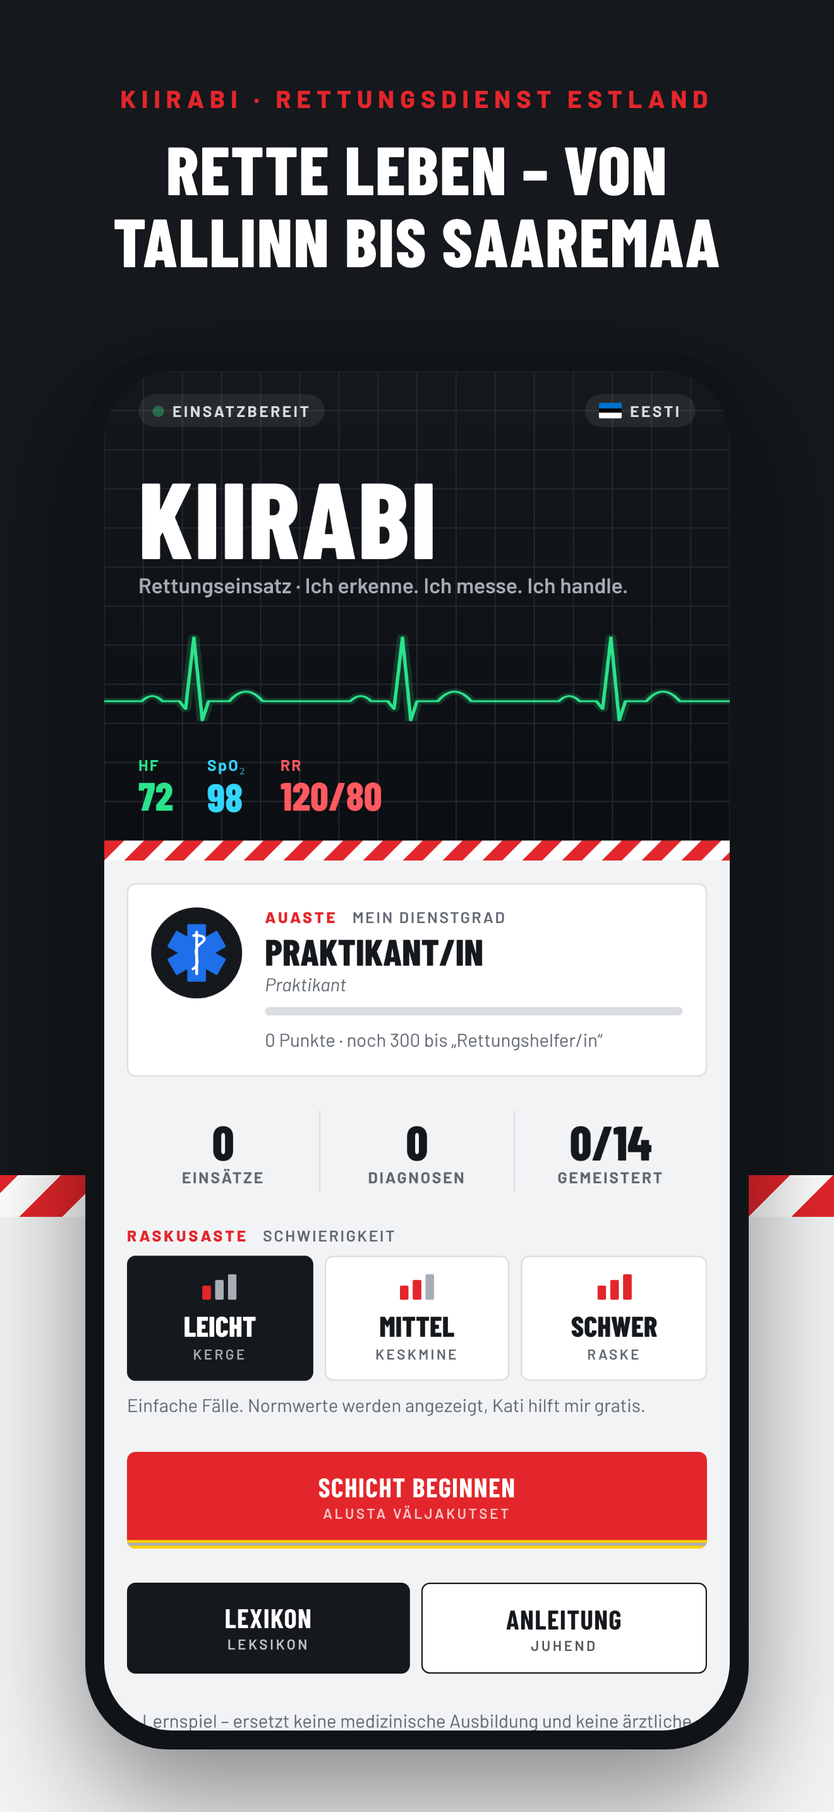
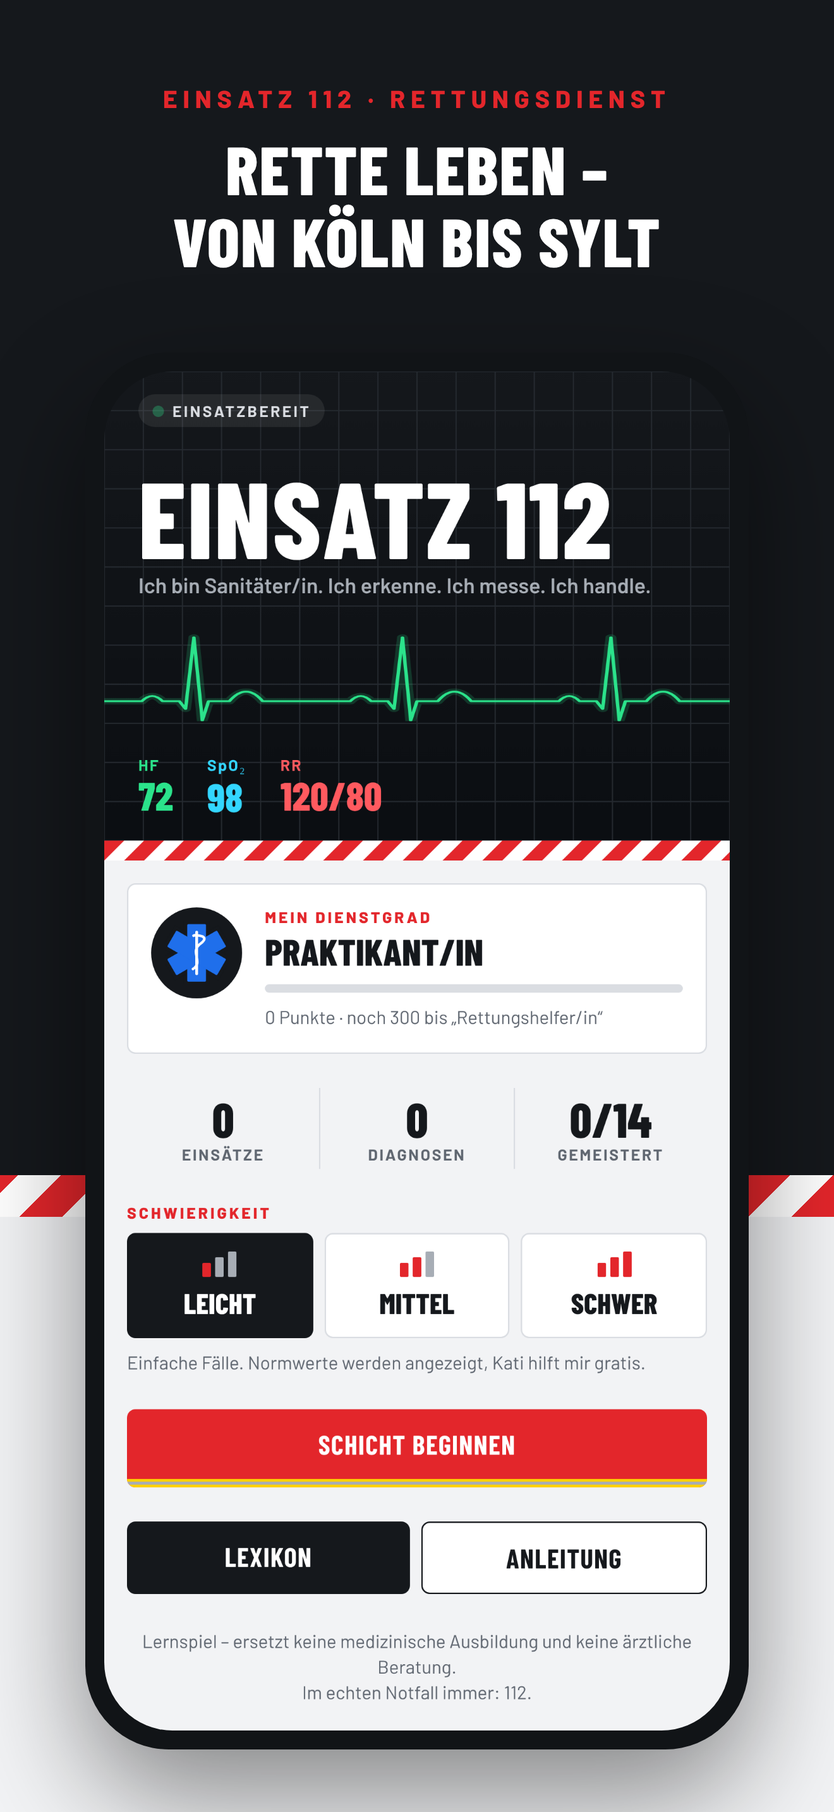
Move all cases to German places and German patient names
- 14 cases now play in Germany (Köln, Heidelberg, Lübeck, Rügen,
  Freiburg, Dresden, Müritz, München, Frankfurt, Aachen, Scheeßel,
  Sylt, Hamburg, Münster) with German names in all texts
- Guide no longer mentions Estonia
- README, App Store texts and screenshots updated to "Einsatz 112"

Claude-Session: https://claude.ai/code/session_013Zik98tbdtaAxD1UhhmXzC

diff --git a/src/data/cases.ts b/src/data/cases.ts
@@ -35,10 +35,10 @@ export const CASES: MedCase[] = [
     diagnosis: 'Akuter Herzinfarkt (STEMI)',
     distractors: ['Lungenembolie', 'Panikattacke', 'Sodbrennen (Reflux)'],
     difficulty: 1,
-    patient: { name: 'Jaan Tamm', age: 58, sex: 'm' },
-    location: 'Tallinn, Altstadt – Raekoja plats',
+    patient: { name: 'Klaus Becker', age: 58, sex: 'm' },
+    location: 'Köln, Altstadt – Alter Markt',
     dispatch: 'Mann mit Brustschmerzen, kaltschweißig, sitzt auf einer Bank am Rathausplatz.',
-    scene: 'Ich finde Jaan zusammengesunken auf einer Bank vor dem Rathaus. Er presst die Faust auf die Brust, Schweißperlen auf der Stirn.',
+    scene: 'Ich finde Klaus zusammengesunken auf einer Bank vor dem Rathaus. Er presst die Faust auf die Brust, Schweißperlen auf der Stirn.',
     anamnese: [
       '„Es drückt so stark auf der Brust, als säße ein Elefant darauf.“',
       'Schmerz strahlt in den linken Arm und den Unterkiefer aus.',
@@ -74,10 +74,10 @@ export const CASES: MedCase[] = [
     diagnosis: 'Hypoglykämie (Unterzuckerung)',
     distractors: ['Schlaganfall', 'Alkoholvergiftung', 'Epileptischer Anfall'],
     difficulty: 1,
-    patient: { name: 'Mari Kask', age: 34, sex: 'w' },
-    location: 'Tartu, Universitätsbibliothek',
+    patient: { name: 'Anna Schulz', age: 34, sex: 'w' },
+    location: 'Heidelberg, Universitätsbibliothek',
     dispatch: 'Frau verhält sich verwirrt und aggressiv, Kollegen sind besorgt.',
-    scene: 'Zwischen den Bücherregalen sitzt Mari auf dem Boden. Sie schaut mich glasig an und murmelt: „Lassen Sie mich in Ruhe …“',
+    scene: 'Zwischen den Bücherregalen sitzt Anna auf dem Boden. Sie schaut mich glasig an und murmelt: „Lassen Sie mich in Ruhe …“',
     anamnese: [
       'Kollegin: „Sie ist Diabetikerin und hat heute das Mittagessen ausgelassen.“',
       'Hat morgens wie gewohnt Insulin gespritzt.',
@@ -112,10 +112,10 @@ export const CASES: MedCase[] = [
     diagnosis: 'Schlaganfall',
     distractors: ['Hypoglykämie', 'Migräne mit Aura', 'Hirnhautentzündung'],
     difficulty: 1,
-    patient: { name: 'Liis Mägi', age: 72, sex: 'w' },
-    location: 'Pärnu, Rüütli-Straße',
+    patient: { name: 'Helga Wagner', age: 72, sex: 'w' },
+    location: 'Lübeck, Breite Straße',
     dispatch: 'Ältere Frau kann plötzlich nicht mehr richtig sprechen.',
-    scene: 'Liis sitzt am Küchentisch, die Kaffeetasse liegt zerbrochen am Boden. Als sie lächeln will, hängt ihr rechter Mundwinkel.',
+    scene: 'Helga sitzt am Küchentisch, die Kaffeetasse liegt zerbrochen am Boden. Als sie lächeln will, hängt ihr rechter Mundwinkel.',
     anamnese: [
       'Ehemann: „Beim Kaffeetrinken fiel ihr plötzlich die Tasse aus der rechten Hand.“',
       'Symptombeginn vor ca. 40 Minuten (genau beobachtet).',
@@ -150,10 +150,10 @@ export const CASES: MedCase[] = [
     diagnosis: 'Anaphylaktischer Schock',
     distractors: ['Asthmaanfall', 'Sonnenstich', 'Panikattacke'],
     difficulty: 2,
-    patient: { name: 'Kalev Saar', age: 25, sex: 'm' },
-    location: 'Saaremaa, Sommerfest an der Windmühle in Angla',
+    patient: { name: 'Lukas Hoffmann', age: 25, sex: 'm' },
+    location: 'Rügen, Sommerfest an der Windmühle in Gingst',
     dispatch: 'Mann nach Wespenstich, bekommt schlecht Luft.',
-    scene: 'Neben der alten Windmühle liegt Kalev im Gras. Sein Gesicht ist aufgedunsen, jeder Atemzug pfeift.',
+    scene: 'Neben der alten Windmühle liegt Lukas im Gras. Sein Gesicht ist aufgedunsen, jeder Atemzug pfeift.',
     anamnese: [
       'Freund: „Er wurde vor 10 Minuten in den Hals gestochen.“',
       '„Mein Hals wird so eng …“',
@@ -188,10 +188,10 @@ export const CASES: MedCase[] = [
     diagnosis: 'Akuter Asthmaanfall',
     distractors: ['Lungenembolie', 'Hyperventilation', 'Herzinfarkt'],
     difficulty: 1,
-    patient: { name: 'Kadri Lepp', age: 19, sex: 'w' },
-    location: 'Tartu, Studentenwohnheim Raatuse',
+    patient: { name: 'Lea Fischer', age: 19, sex: 'w' },
+    location: 'Freiburg, Studentenwohnheim',
     dispatch: 'Junge Frau mit starker Atemnot, Spray hilft nicht.',
-    scene: 'Kadri sitzt vornübergebeugt auf ihrem Bett und stützt sich auf die Knie. Ich höre ihr Pfeifen schon an der Tür.',
+    scene: 'Lea sitzt vornübergebeugt auf ihrem Bett und stützt sich auf die Knie. Ich höre ihr Pfeifen schon an der Tür.',
     anamnese: [
       '„Ich … kriege … keine Luft … raus.“ (spricht nur in Satzfragmenten)',
       'Asthma seit der Kindheit, Erkältung seit drei Tagen.',
@@ -226,10 +226,10 @@ export const CASES: MedCase[] = [
     diagnosis: 'Sepsis bei Lungenentzündung',
     distractors: ['Grippaler Infekt', 'Demenz', 'Herzinsuffizienz'],
     difficulty: 3,
-    patient: { name: 'Toomas Rebane', age: 81, sex: 'm' },
-    location: 'Narva, Pflegeheim am Fluss',
+    patient: { name: 'Heinrich Krause', age: 81, sex: 'm' },
+    location: 'Dresden, Pflegeheim an der Elbe',
     dispatch: 'Bewohner seit heute verwirrt und sehr schwach.',
-    scene: 'Toomas liegt im Bett, die Decke weggestrampelt. Er fühlt sich glühend heiß an und erkennt die Pflegerin nicht.',
+    scene: 'Heinrich liegt im Bett, die Decke weggestrampelt. Er fühlt sich glühend heiß an und erkennt die Pflegerin nicht.',
     anamnese: [
       'Pflegerin: „Er hustet seit Tagen und ist heute ganz anders als sonst.“',
       'Trinkt und isst seit zwei Tagen kaum.',
@@ -264,10 +264,10 @@ export const CASES: MedCase[] = [
     diagnosis: 'Unterkühlung (Hypothermie)',
     distractors: ['Alkoholvergiftung', 'Hypoglykämie', 'Herzinfarkt'],
     difficulty: 2,
-    patient: { name: 'Andres Kuusk', age: 45, sex: 'm' },
-    location: 'Peipussee, Eisfischerei bei Mustvee',
-    dispatch: 'Eisfischer ins Eis eingebrochen, von Freunden herausgezogen.',
-    scene: 'Auf dem Eis liegt Andres in nassen Kleidern. Er zittert nicht mehr – das macht mir Sorgen.',
+    patient: { name: 'Thomas Braun', age: 45, sex: 'm' },
+    location: 'Müritz, Eisangeln bei Waren',
+    dispatch: 'Eisangler ins Eis eingebrochen, von Freunden herausgezogen.',
+    scene: 'Auf dem Eis liegt Thomas in nassen Kleidern. Er zittert nicht mehr – das macht mir Sorgen.',
     anamnese: [
       'Freund: „Er war bestimmt 15 Minuten im Wasser, bevor wir ihn rausbekamen.“',
       'Seitdem liegt er im Schnee, nasse Kleidung.',
@@ -302,10 +302,10 @@ export const CASES: MedCase[] = [
     diagnosis: 'Hitzschlag',
     distractors: ['Grippaler Infekt', 'Schlaganfall', 'Hypoglykämie'],
     difficulty: 2,
-    patient: { name: 'Margus Sepp', age: 30, sex: 'm' },
-    location: 'Tallinn, Lauluväljak (Sängerfest)',
+    patient: { name: 'Florian Huber', age: 30, sex: 'm' },
+    location: 'München, Chorfest im Englischen Garten',
     dispatch: 'Sänger im Chor kollabiert, 32 °C im Schatten.',
-    scene: 'Hinter der Sängerbühne liegt Margus in seiner Tracht im Gras. Seine Haut ist knallrot und glühend heiß.',
+    scene: 'Hinter der Sängerbühne liegt Florian in seiner Tracht im Gras. Seine Haut ist knallrot und glühend heiß.',
     anamnese: [
       'Chorleiterin: „Wir standen drei Stunden in der Sonne, in Tracht.“',
       'Hat kaum etwas getrunken.',
@@ -340,10 +340,10 @@ export const CASES: MedCase[] = [
     diagnosis: 'Lungenembolie',
     distractors: ['Asthmaanfall', 'Rippenprellung', 'Hyperventilation'],
     difficulty: 3,
-    patient: { name: 'Piret Ilves', age: 38, sex: 'w' },
-    location: 'Tallinn, Flughafen Lennart Meri',
+    patient: { name: 'Sabine Wolf', age: 38, sex: 'w' },
+    location: 'Frankfurt, Flughafen – Terminal 1',
     dispatch: 'Frau nach Ankunft aus Asien plötzlich mit Atemnot.',
-    scene: 'Piret sitzt an Gate 3 auf ihrem Koffer, ringt nach Luft und hält sich die rechte Brustseite.',
+    scene: 'Sabine sitzt an Gate 3 auf ihrem Koffer, ringt nach Luft und hält sich die rechte Brustseite.',
     anamnese: [
       '„Ganz plötzlich bekam ich keine Luft mehr, und es sticht beim Einatmen.“',
       '11-Stunden-Flug, kaum aufgestanden.',
@@ -379,10 +379,10 @@ export const CASES: MedCase[] = [
     diagnosis: 'Hyperventilationssyndrom',
     distractors: ['Asthmaanfall', 'Lungenembolie', 'Hypoglykämie'],
     difficulty: 2,
-    patient: { name: 'Anu Põld', age: 22, sex: 'w' },
-    location: 'Tallinn, TalTech – Prüfungssaal',
+    patient: { name: 'Julia Neumann', age: 22, sex: 'w' },
+    location: 'Aachen, RWTH – Prüfungssaal',
     dispatch: 'Studentin hat vor der Prüfung eine „Atemattacke“.',
-    scene: 'Anu sitzt zitternd vor dem Prüfungssaal. Sie atmet schnell und tief, ihre Hände sind zu „Pfötchen“ verkrampft.',
+    scene: 'Julia sitzt zitternd vor dem Prüfungssaal. Sie atmet schnell und tief, ihre Hände sind zu „Pfötchen“ verkrampft.',
     anamnese: [
       '„Meine Hände kribbeln, und ich kann die Finger nicht bewegen!“',
       'Große Prüfungsangst, keine Vorerkrankungen.',
@@ -417,10 +417,10 @@ export const CASES: MedCase[] = [
     diagnosis: 'Epileptischer Krampfanfall (postiktal)',
     distractors: ['Schlaganfall', 'Synkope (Ohnmacht)', 'Hypoglykämie'],
     difficulty: 2,
-    patient: { name: 'Rein Oja', age: 27, sex: 'm' },
-    location: 'Viljandi, Folkfestival',
+    patient: { name: 'Jonas Richter', age: 27, sex: 'm' },
+    location: 'Scheeßel, Hurricane-Festival',
     dispatch: 'Mann hat vor dem Konzert gekrampft, jetzt nicht ansprechbar.',
-    scene: 'Rein liegt neben der Bühne, um ihn herum besorgte Festivalbesucher. Er schnarcht laut und reagiert kaum.',
+    scene: 'Jonas liegt neben der Bühne, um ihn herum besorgte Festivalbesucher. Er schnarcht laut und reagiert kaum.',
     anamnese: [
       'Freundin: „Er ist umgefallen und hat ca. 2 Minuten am ganzen Körper gezuckt.“',
       'Epilepsie bekannt, hat Tabletten vergessen und kaum geschlafen.',
@@ -455,10 +455,10 @@ export const CASES: MedCase[] = [
     diagnosis: 'Akute Herzinsuffizienz mit Lungenödem',
     distractors: ['Lungenentzündung', 'Asthmaanfall', 'Anaphylaxie'],
     difficulty: 3,
-    patient: { name: 'Kristiina Pärn', age: 76, sex: 'w' },
-    location: 'Haapsalu, Holzhaus am Promenadenweg',
+    patient: { name: 'Gisela Schmitt', age: 76, sex: 'w' },
+    location: 'Sylt, Reetdachhaus in Keitum',
     dispatch: 'Ältere Frau mit nächtlicher Atemnot, sitzt am offenen Fenster.',
-    scene: 'Kristiina sitzt im Nachthemd am offenen Fenster und ringt nach Luft. Ich höre es in ihrer Brust brodeln.',
+    scene: 'Gisela sitzt im Nachthemd am offenen Fenster und ringt nach Luft. Ich höre es in ihrer Brust brodeln.',
     anamnese: [
       '„Im Liegen ersticke ich – ich muss sitzen.“',
       'Herzschwäche bekannt, Wassertabletten seit einer Woche nicht genommen.',
@@ -493,10 +493,10 @@ export const CASES: MedCase[] = [
     diagnosis: 'Kreislaufkollaps (Synkope)',
     distractors: ['Epileptischer Anfall', 'Herzinfarkt', 'Hypoglykämie'],
     difficulty: 1,
-    patient: { name: 'Helena Kivi', age: 17, sex: 'w' },
-    location: 'Tallinn, Nigulisten-Kirche (Orgelkonzert)',
+    patient: { name: 'Marie Koch', age: 17, sex: 'w' },
+    location: 'Hamburg, Michel (Orgelkonzert)',
     dispatch: 'Jugendliche während eines Konzerts umgekippt, wieder wach.',
-    scene: 'Helena liegt im Kirchengang, kreidebleich. Ihre Mutter fächelt ihr Luft zu. Sie blinzelt mich an: „Was ist passiert?“',
+    scene: 'Marie liegt im Kirchengang, kreidebleich. Ihre Mutter fächelt ihr Luft zu. Sie blinzelt mich an: „Was ist passiert?“',
     anamnese: [
       'Mutter: „Wir standen über eine Stunde, und es war sehr stickig.“',
       '„Mir wurde schwarz vor Augen, dann lag ich plötzlich am Boden.“',
@@ -531,10 +531,10 @@ export const CASES: MedCase[] = [
     diagnosis: 'Unterarmbruch (Radiusfraktur)',
     distractors: ['Schulterluxation', 'Schlaganfall', 'Sehnenscheidenentzündung'],
     difficulty: 1,
-    patient: { name: 'Mart Kallas', age: 41, sex: 'm' },
-    location: 'Tartu, Radweg am Emajõgi',
+    patient: { name: 'Stefan Meyer', age: 41, sex: 'm' },
+    location: 'Münster, Radweg an der Promenade',
     dispatch: 'Radfahrer gestürzt, Handgelenk verletzt.',
-    scene: 'Mart sitzt am Wegrand neben seinem Fahrrad und hält vorsichtig seinen linken Arm. Das Handgelenk sieht seltsam „abgeknickt“ aus.',
+    scene: 'Stefan sitzt am Wegrand neben seinem Fahrrad und hält vorsichtig seinen linken Arm. Das Handgelenk sieht seltsam „abgeknickt“ aus.',
     anamnese: [
       '„Ich bin auf nassem Laub weggerutscht und auf die Hand gefallen.“',
       '„Es tut höllisch weh, ich kann die Hand kaum bewegen.“',

diff --git a/src/screens/GuideScreen.tsx b/src/screens/GuideScreen.tsx
@@ -5,7 +5,7 @@ import { POINTS } from '../game/scoring';
 import { colors, spacing, type, fonts } from '../theme';
 
 const STEPS = [
-  { de: 'Alarm', text: 'Mein Melder piept: Die Leitstelle schickt mich irgendwo in Estland hin. Mit Blaulicht geht es los.' },
+  { de: 'Alarm', text: 'Mein Melder piept: Die Leitstelle schickt mich zum nächsten Notfall. Mit Blaulicht geht es los.' },
   {
     de: 'Untersuchung',
     text: 'Ich höre zu, schaue genau hin und messe Vitalwerte. Jeden Wert stufe ich ein: niedrig, normal oder hoch. Jede Messung kostet Zeit – und den Patienten etwas Kraft.',

diff --git a/docs/APPSTORE-EINTRAG.md b/docs/APPSTORE-EINTRAG.md
@@ -1,4 +1,4 @@
-# App-Store-Eintrag – Kiirabi
+# App-Store-Eintrag – Einsatz 112
 
 Alle Texte zum Einfügen in **App Store Connect → App → App-Store-Reiter (Deutsch)**.
 Die Zeichenlimits von Apple sind eingehalten.
@@ -9,7 +9,7 @@ In dieser Reihenfolge hochladen – Apple skaliert sie für kleinere iPhones sel
 
 | | Datei | Überschrift |
 |---|---|---|
-| 1 | [`appstore/01.png`](appstore/01.png) | Rette Leben – von Tallinn bis Saaremaa |
+| 1 | [`appstore/01.png`](appstore/01.png) | Rette Leben – von Köln bis Sylt |
 | 2 | [`appstore/02.png`](appstore/02.png) | Der Melder piept: 14 Einsätze, drei Schwierigkeitsstufen |
 | 3 | [`appstore/03.png`](appstore/03.png) | Mit Blaulicht zum Einsatzort |
 | 4 | [`appstore/04.png`](appstore/04.png) | Puls, Blutdruck, SpO2, EKG: messen und einschätzen |
@@ -17,20 +17,20 @@ In dieser Reihenfolge hochladen – Apple skaliert sie für kleinere iPhones sel
 
 ## Texte
 
-**Name** (max. 30): `Kiirabi – Rettungseinsatz`
+**Name** (max. 30): `Einsatz 112 – Rettungsdienst`
 
-**Untertitel** (max. 30): `Sanitäter-Lernspiel in Estland`
+**Untertitel** (max. 30): `Das Sanitäter-Lernspiel`
 
 **Werbetext** (max. 170):
-> Der Melder piept! Als Sanitäter/in in Estland messe ich Vitalwerte, erkenne Krankheiten und entscheide, was zu tun ist – in drei Schwierigkeitsstufen.
+> Der Melder piept! Als Sanitäter/in messe ich Vitalwerte, erkenne Krankheiten und entscheide, was zu tun ist – in drei Schwierigkeitsstufen.
 
 **Keywords** (max. 100):
-`Sanitäter,Rettungsdienst,Notfall,Erste Hilfe,Vitalwerte,Medizin,Lernspiel,Estland,EKG,Pflege`
+`Sanitäter,Rettungsdienst,Notfall,Erste Hilfe,Vitalwerte,Medizin,Lernspiel,Notarzt,EKG,Pflege`
 
 **Beschreibung:**
-> Tere! Ich bin Sanitäter/in im estnischen Rettungsdienst – kiirabi.
+> Ich bin Sanitäter/in im Rettungsdienst.
 >
-> Mein Melder piept, und mit Blaulicht geht es los: in die Tallinner Altstadt, ins Studentenwohnheim in Tartu, zum Sängerfest, aufs Eis des Peipussees. Vor Ort höre ich zu, schaue genau hin und messe: Puls, Blutdruck, Sauerstoffsättigung, Atemfrequenz, Temperatur, Blutzucker, Bewusstsein und 12-Kanal-EKG. Jeden Wert schätze ich selbst ein – niedrig, normal oder hoch?
+> Mein Melder piept, und mit Blaulicht geht es los: in die Kölner Altstadt, ins Studentenwohnheim in Freiburg, zum Chorfest in München, aufs Eis der Müritz. Vor Ort höre ich zu, schaue genau hin und messe: Puls, Blutdruck, Sauerstoffsättigung, Atemfrequenz, Temperatur, Blutzucker, Bewusstsein und 12-Kanal-EKG. Jeden Wert schätze ich selbst ein – niedrig, normal oder hoch?
 >
 > Dann stelle ich meine Verdachtsdiagnose und entscheide, was zu tun ist. Jede Messung kostet Zeit, jede falsche Maßnahme schadet meinem Patienten. Am Ende zeigt der Einsatzbericht, wie mein Patient in der Klinik ankommt.
 >
@@ -41,7 +41,7 @@ In dieser Reihenfolge hochladen – Apple skaliert sie für kleinere iPhones sel
 > • Look wie im echten Rettungsdienst: Patientenmonitor mit EKG, Warnmarkierung, Reflexstreifen
 > • Ohne Werbung, ohne Konto, ohne Datenerfassung
 >
-> Hinweis: Kiirabi ist ein Lernspiel mit vereinfachten Inhalten. Es ersetzt keine medizinische Ausbildung, keine ärztliche Beratung und keine Leitlinien. Im Notfall immer 112 wählen.
+> Hinweis: Einsatz 112 ist ein Lernspiel mit vereinfachten Inhalten. Es ersetzt keine medizinische Ausbildung, keine ärztliche Beratung und keine Leitlinien. Im Notfall immer 112 wählen.
 
 ## Weitere Angaben
 
@@ -58,4 +58,4 @@ In dieser Reihenfolge hochladen – Apple skaliert sie für kleinere iPhones sel
 
 ## Notizen für die App-Prüfung (Review Notes)
 
-> Kiirabi is an educational game for learning paramedic basics (recognising vital signs and common emergencies). All patients and cases are fictional. The app gives no medical advice for real persons, collects no data and needs no login. A disclaimer is shown on the start screen and in the guide.
+> Einsatz 112 is an educational game for learning paramedic basics (recognising vital signs and common emergencies). All patients and cases are fictional. The app gives no medical advice for real persons, collects no data and needs no login. A disclaimer is shown on the start screen and in the guide.

diff --git a/README.md b/README.md
@@ -1,8 +1,8 @@
 # Einsatz 112 – Rettungsdienst-Lernspiel 🚑
 
-Ein medizinisches Lernspiel mit **Expo / React Native** im **estnischen Design**, erzählt in der
-**Ich-Perspektive**: Ich bin Sanitäter/in im estnischen Rettungsdienst (*kiirabi*), fahre mit meiner
-Kollegin Kati zu Einsätzen quer durch Estland, messe Vitalwerte, stufe sie ein, erkenne die
+Ein medizinisches Lernspiel mit **Expo / React Native** im **Rettungsdienst-Design**, komplett auf Deutsch und
+erzählt in der **Ich-Perspektive**: Ich bin Sanitäter/in im Rettungsdienst, fahre mit meiner
+Kollegin Kati zu Einsätzen quer durch Deutschland, messe Vitalwerte, stufe sie ein, erkenne die
 Krankheit und entscheide, was zu tun ist.
 
 ## Schwierigkeitsstufen
@@ -23,15 +23,15 @@ Krankheit und entscheide, was zu tun ist.
 
 ## Spielablauf
 
-1. **Väljakutse – Alarm:** Einsatzmeldung der Leitstelle (Tallinn, Tartu, Pärnu, Saaremaa, Peipussee …).
-2. **Läbivaatus – Untersuchung:** Anamnese und Sichtbefund lesen, Werte messen
+1. **Alarm:** Einsatzmeldung der Leitstelle (Köln, Heidelberg, Lübeck, Rügen, Müritz …).
+2. **Untersuchung:** Anamnese und Sichtbefund lesen, Werte messen
    (Puls, Blutdruck, SpO₂, Atemfrequenz, Temperatur, Blutzucker, GCS, 12-Kanal-EKG)
    und jeden Wert als *niedrig / normal / hoch* einstufen. Jede Messung kostet eine Minute.
-3. **Diagnoos – Diagnose:** Verdachtsdiagnose aus vier Möglichkeiten wählen.
-4. **Ravi – Maßnahmen:** Alle richtigen Erstmaßnahmen auswählen – falsche kosten Punkte.
-5. **Tulemus – Einsatzbericht:** Punkte, Sterne, Erklärung und Leitsymptome.
+3. **Diagnose:** Verdachtsdiagnose aus vier Möglichkeiten wählen.
+4. **Maßnahmen:** Alle richtigen Erstmaßnahmen auswählen – falsche kosten Punkte.
+5. **Einsatzbericht:** Punkte, Sterne, Erklärung und Leitsymptome.
 
-Punkte bringen dich im Rang nach oben – vom *Praktikant* bis zur *Kiirabibrigaadi juht*.
+Punkte bringen dich im Rang nach oben – vom *Praktikanten* bis zur *Teamleitung*.
 Der Fortschritt wird lokal gespeichert. Im **Lexikon** findest du Normwerte und alle Krankheitsbilder.
 
 ### Enthaltene Fälle (14)
@@ -48,7 +48,7 @@ Der Fortschritt wird lokal gespeichert. Im **Lexikon** findest du Normwerte und 
 - **Rot-weiße Warnmarkierung** wie am Heck eines Rettungswagens, **Reflexstreifen** (Gelb–Silber–Gelb)
   wie an der Einsatzkleidung
 - Graphit, Signalrot und Blaulicht-Blau auf neutralem Grau; Schriften *Barlow Condensed* und *Barlow*
-- Komplett auf Deutsch; die Einsätze spielen in Estland (Tallinn, Tartu, Pärnu …)
+- Komplett auf Deutsch; die Einsätze spielen in ganz Deutschland
 
 Die Grafiken sind Vektorgrafiken (`react-native-svg`) in `src/components/Ems.tsx`.
 
@@ -70,7 +70,7 @@ Lokal bauen: `cd desktop && npm install && npm run prepare-app && npm run dist:l
 
 Beides liegt unter **Releases** im Repository (neuester Build oben).
 Android: APK auf dem Handy öffnen und „Installation aus unbekannten Quellen“ erlauben.
-**iPhone & iPad (ohne App Store):** Kiirabi läuft als Web-App mit eigenem Icon, im Vollbild und offline.
+**iPhone & iPad (ohne App Store):** Einsatz 112 läuft als Web-App mit eigenem Icon, im Vollbild und offline.
 Der Workflow „Web-App veröffentlichen“ legt sie unter <https://tobiaslangde-eng.github.io/retung/> ab.
 Auf dem iPhone den Link in **Safari** öffnen → Teilen-Symbol → **„Zum Home-Bildschirm“**.
 Einmalig nötig: Repository öffentlich und unter *Settings → Pages* den Branch `gh-pages` als Quelle wählen.
@@ -97,7 +97,7 @@ npm run build:web     # erzeugt dist/kiirabi.html – eine eigenständige Datei 
 
 ```
 App.tsx                 Navigation (Zustandsautomat) & Fortschritt
-src/theme.ts            Farben & Typografie (estnisches Design)
+src/theme.ts            Farben & Typografie (Rettungsdienst-Design)
 src/components/Ems.tsx  Star of Life, Warnmarkierung, Reflexstreifen, Monitor, EKG, Stadt
 src/components/         Buttons, Karten, Kati, Blaulichtfahrt
 src/data/vitals.ts      Vitalwerte, Normbereiche, Einstufung

diff --git a/docs/APPLE-RELEASE.md b/docs/APPLE-RELEASE.md
@@ -1,4 +1,4 @@
-# Kiirabi für iPhone veröffentlichen
+# Einsatz 112 für iPhone veröffentlichen
 
 Das Projekt ist fertig für Apple vorbereitet (`eas.json`, Bundle-ID `ee.kiirabi.rettung`,
 Exportkonformität, Workflow „iOS Release“). Gebaut wird auf den Mac-Servern von Expo –
@@ -49,7 +49,7 @@ Nach ca. 20–40 Minuten ist der Build fertig und in **App Store Connect → Tes
 
 1. In App Store Connect unter *TestFlight* dich selbst als internen Tester eintragen.
 2. Die App **TestFlight** aus dem App Store auf dem iPhone installieren.
-3. Einladung annehmen → Kiirabi installieren.
+3. Einladung annehmen → Einsatz 112 installieren.
 
 ## 4. Spätere Updates ohne eigenen Rechner
 
@@ -73,13 +73,13 @@ Du brauchst:
 - **Altersfreigabe**: Fragebogen ausfüllen (medizinische Inhalte: „selten/gering“)
 - **Beschreibung** – Vorschlag:
 
-> Kiirabi – Rettungseinsatz: Als Sanitäter/in in Estland erkenne ich Krankheiten, messe
-> Vitalwerte und entscheide, was zu tun ist. 14 Einsätze von Tallinn bis Saaremaa,
-> drei Schwierigkeitsstufen, Lexikon mit Normwerten. Im estnischen Design.
+> Einsatz 112: Als Sanitäter/in erkenne ich Krankheiten, messe Vitalwerte und
+> entscheide, was zu tun ist. 14 Einsätze von Köln bis Sylt, drei Schwierigkeitsstufen,
+> Lexikon mit Normwerten.
 > Lernspiel – ersetzt keine medizinische Ausbildung oder ärztliche Beratung.
 
 **Hinweis zur Prüfung:** Apple prüft Apps mit medizinischen Inhalten genauer
-(Richtlinie 1.4.1). Kiirabi ist als Lernspiel gekennzeichnet und gibt keine Diagnosen für
+(Richtlinie 1.4.1). Einsatz 112 ist als Lernspiel gekennzeichnet und gibt keine Diagnosen für
 echte Personen; den Hinweis „Lernspiel – keine medizinische Beratung“ in der Beschreibung
 und in den Prüfnotizen unbedingt beibehalten.
 

diff --git a/docs/DATENSCHUTZ.md b/docs/DATENSCHUTZ.md
@@ -1,6 +1,6 @@
-# Datenschutzerklärung – Kiirabi
+# Datenschutzerklärung – Einsatz 112
 
-**Kiirabi – Rettungseinsatz** ist ein Lernspiel.
+**Einsatz 112** ist ein Lernspiel.
 
 - Die App erhebt **keine personenbezogenen Daten** und überträgt keine Daten an Server.
 - Es gibt kein Benutzerkonto, keine Werbung, keine Analyse- oder Tracking-Dienste.
